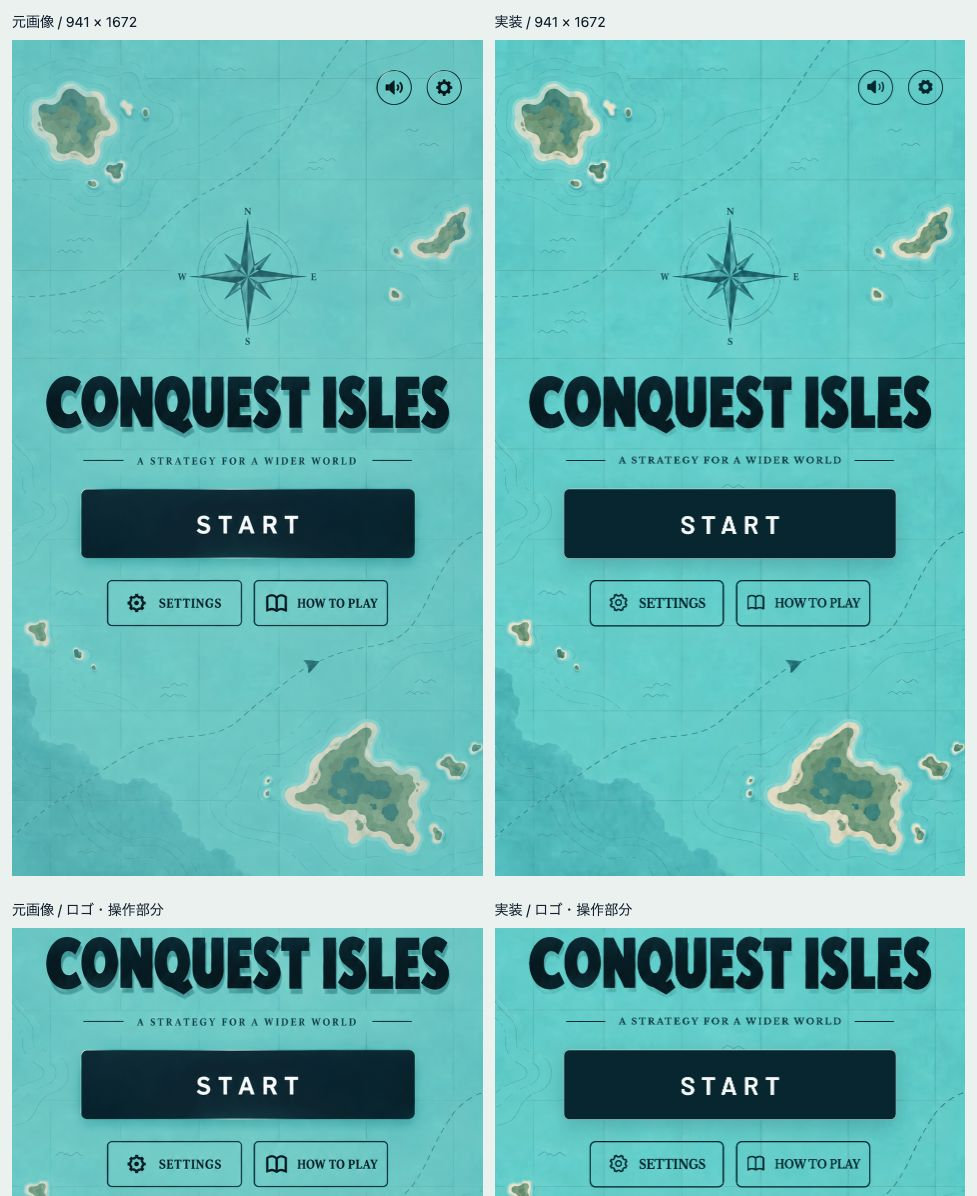
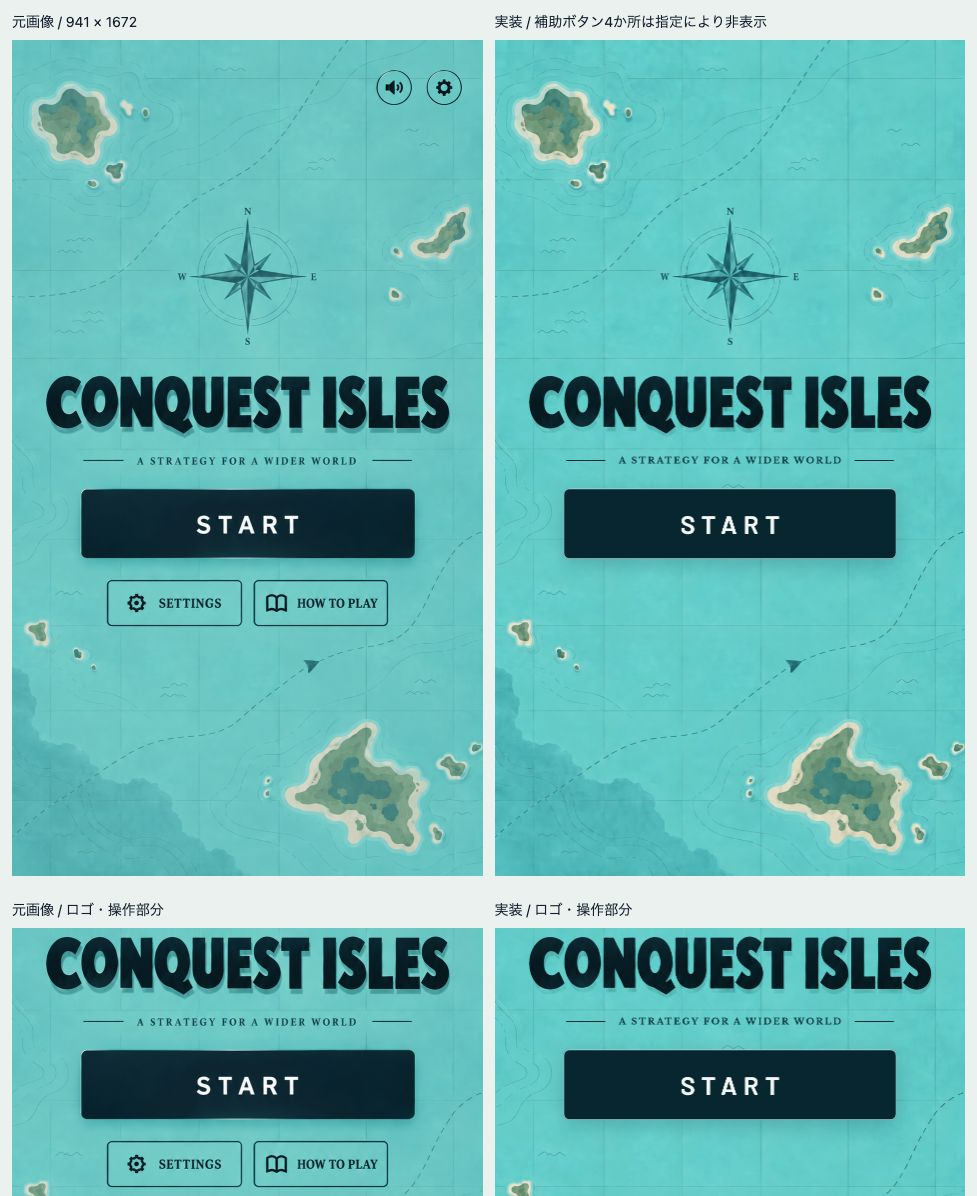
トップ画面の補助ボタンを一時的に非表示

diff --git a/lib/ui/title_screen.dart b/lib/ui/title_screen.dart
@@ -9,6 +9,8 @@ import '../l10n/generated/app_localizations_en.dart';
 const _ink = Color(0xFF002C36);
 const _paper = Color(0xFFF6F8F7);
 const _referenceSize = Size(941, 1672);
+// トップ画面の補助ボタンは、再表示するまで一時的に非表示にする。
+const _showSecondaryActions = false;
 
 /// The app's entry screen. Match state and navigation belong to its host.
 class TitleScreen extends StatelessWidget {
@@ -71,63 +73,66 @@ class TitleScreen extends StatelessWidget {
                         primary: true,
                       ),
                     ),
-                    SizedBox(height: 42 * scale),
-                    SizedBox(
-                      width: secondaryWidth,
-                      child: largeText
-                          ? Column(
-                              crossAxisAlignment: CrossAxisAlignment.stretch,
-                              children: [
-                                _settingsButton(l10n, scale),
-                                const SizedBox(height: 12),
-                                _helpButton(context, l10n, scale),
-                              ],
-                            )
-                          : Row(
-                              children: [
-                                Expanded(child: _settingsButton(l10n, scale)),
-                                SizedBox(width: 24 * scale),
-                                Expanded(
-                                  child: _helpButton(context, l10n, scale),
-                                ),
-                              ],
-                            ),
-                    ),
+                    if (_showSecondaryActions) ...[
+                      SizedBox(height: 42 * scale),
+                      SizedBox(
+                        width: secondaryWidth,
+                        child: largeText
+                            ? Column(
+                                crossAxisAlignment: CrossAxisAlignment.stretch,
+                                children: [
+                                  _settingsButton(l10n, scale),
+                                  const SizedBox(height: 12),
+                                  _helpButton(context, l10n, scale),
+                                ],
+                              )
+                            : Row(
+                                children: [
+                                  Expanded(child: _settingsButton(l10n, scale)),
+                                  SizedBox(width: 24 * scale),
+                                  Expanded(
+                                    child: _helpButton(context, l10n, scale),
+                                  ),
+                                ],
+                              ),
+                      ),
+                    ],
                     // Let short screens and enlarged text scroll every action
                     // into view without shrinking interactive targets.
                     SizedBox(height: math.max(24.0, 32 * scale)),
                   ],
                 ),
-                Positioned(
-                  top: math.max(4.0, 60 * scale - iconInset),
-                  right: math.max(4.0, 44 * scale - iconInset),
-                  child: Row(
-                    children: [
-                      _ChartIconButton(
-                        buttonKey: const ValueKey('title-sound'),
-                        icon: CupertinoIcons.speaker_2_fill,
-                        tooltip: l10n.titleSound,
-                        size: iconSize,
-                        onPressed: () => _showInformation(
-                          context,
-                          title: l10n.titleSound,
-                          content: Text(l10n.titleSoundDescription),
-                          closeLabel: l10n.titleClose,
+                if (_showSecondaryActions)
+                  Positioned(
+                    top: math.max(4.0, 60 * scale - iconInset),
+                    right: math.max(4.0, 44 * scale - iconInset),
+                    child: Row(
+                      children: [
+                        _ChartIconButton(
+                          buttonKey: const ValueKey('title-sound'),
+                          icon: CupertinoIcons.speaker_2_fill,
+                          tooltip: l10n.titleSound,
+                          size: iconSize,
+                          onPressed: () => _showInformation(
+                            context,
+                            title: l10n.titleSound,
+                            content: Text(l10n.titleSoundDescription),
+                            closeLabel: l10n.titleClose,
+                          ),
                         ),
-                      ),
-                      SizedBox(
-                        width: math.max(0.0, 30 * scale - 2 * iconInset),
-                      ),
-                      _ChartIconButton(
-                        buttonKey: const ValueKey('title-settings-icon'),
-                        icon: CupertinoIcons.gear_alt_fill,
-                        tooltip: l10n.settingsTitle,
-                        size: iconSize,
-                        onPressed: onStart,
-                      ),
-                    ],
+                        SizedBox(
+                          width: math.max(0.0, 30 * scale - 2 * iconInset),
+                        ),
+                        _ChartIconButton(
+                          buttonKey: const ValueKey('title-settings-icon'),
+                          icon: CupertinoIcons.gear_alt_fill,
+                          tooltip: l10n.settingsTitle,
+                          size: iconSize,
+                          onPressed: onStart,
+                        ),
+                      ],
+                    ),
                   ),
-                ),
               ],
             ),
           ),

diff --git a/test/title_screen_test.dart b/test/title_screen_test.dart
@@ -10,41 +10,6 @@ import 'package:flutter_test/flutter_test.dart';
 import 'support/match_setup.dart';
 
 void main() {
-  testWidgets('both title settings buttons open the retained match setup', (
-    tester,
-  ) async {
-    await tester.binding.setSurfaceSize(const Size(390, 844));
-    addTearDown(() => tester.binding.setSurfaceSize(null));
-    await tester.pumpWidget(
-      const ProviderScope(child: MyApp(locale: Locale('en'))),
-    );
-    for (final key in ['title-settings', 'title-settings-icon']) {
-      await tester.tap(find.byKey(ValueKey(key)));
-      await tester.pumpAndSettle();
-      expect(find.byKey(const ValueKey('settings-view')), findsOneWidget);
-      await tester.tap(find.byKey(const ValueKey('return-title')));
-      await tester.pumpAndSettle();
-    }
-  });
-
-  testWidgets('how to play opens and closes without starting the match', (
-    tester,
-  ) async {
-    await tester.binding.setSurfaceSize(const Size(390, 844));
-    addTearDown(() => tester.binding.setSurfaceSize(null));
-    await tester.pumpWidget(
-      const ProviderScope(child: MyApp(locale: Locale('ja'))),
-    );
-    await tester.tap(find.byKey(const ValueKey('title-how-to-play')));
-    await tester.pumpAndSettle();
-    expect(find.text('遊び方'), findsOneWidget);
-    expect(find.textContaining('半分'), findsOneWidget);
-    await tester.tap(find.byKey(const ValueKey('title-dialog-close')));
-    await tester.pumpAndSettle();
-    expect(find.byKey(const ValueKey('title-view')), findsOneWidget);
-    expect(find.byKey(const ValueKey('settings-view')), findsNothing);
-  });
-
   testWidgets(
     'keeps title actions at least 48 pixels tall on desktop',
     (tester) async {

diff --git a/design-qa.md b/design-qa.md
@@ -2,7 +2,7 @@
 
 **最終結果：合格**
 
-元画像との比較で見つかったロゴの影・文字幅・小画面の読みやすさを修正しました。対応が必要な重大度 P0〜P2 の指摘は残っていません。
+元画像の海図・ロゴ・配色・STARTの配置を再現しました。追加の指定に合わせ、右上のサウンド・設定と、下段のSETTINGS・HOW TO PLAYの4か所を一時的に非表示にしています。対応が必要な重大度 P0〜P2 の指摘は残っていません。
 
 ## 比較対象と画像
 
@@ -11,6 +11,7 @@
 - 同じサイズで描画した画面：[最終版](design-qa-assets/isles-title/reference-size-final.png)。
 - 全体と操作部分を並べた画像：[元画像と実装の比較](design-qa-assets/isles-title/comparison-final.png)。
 - ブラウザでの表示：[390 × 844](design-qa-assets/isles-title/web-title-390.png)、[320 × 568](design-qa-assets/isles-title/web-title-320.png)、[1440 × 900](design-qa-assets/isles-title/web-title-wide.png)。
+- コメント時と同じ表示領域：[442 × 964・補助ボタン非表示後](design-qa-assets/isles-title/web-title-actions-hidden.png)。比較画像と各サイズの画面は、すべて補助ボタンの非表示後に更新しました。
 
 ![元画像と実装の比較](design-qa-assets/isles-title/comparison-final.png)
 
@@ -25,36 +26,37 @@
 
 | 観点 | 確認した内容 |
 | --- | --- |
-| 文字・書体 | `CONQUEST ISLES` は元画像の字形と影を利用しています。`START` はBarlow SemiBold、キャッチコピーと下段ボタンはLibre Baskerville Boldを使用し、太さ・文字間隔・文字幅を調整しました。フォントとOFLライセンスを同梱しています。 |
-| 配置・余白 | 幅941ピクセルでは、ロゴの切り出し位置をy=666、開始ボタンを幅667・y≈898、下段ボタンの並びを幅562・y≈1081に合わせています。操作領域の高さは48論理ピクセル以上です。小画面では下段ボタンの幅を広げ、文字拡大時は縦並び、画面の高さが足りない場合はスクロールで対応します。 |
+| 文字・書体 | `CONQUEST ISLES` は元画像の字形と影を利用しています。`START` はBarlow SemiBold、キャッチコピーはLibre Baskerville Boldを使用し、太さ・文字間隔・文字幅を調整しました。フォントとOFLライセンスを同梱しています。 |
+| 配置・余白 | 幅941ピクセルでは、ロゴの切り出し位置をy=666、開始ボタンを幅667・y≈898に合わせています。補助ボタンの非表示後もロゴとSTARTの位置を保ちます。操作領域の高さは48論理ピクセル以上です。画面の高さが足りない場合はスクロールで対応します。 |
 | 色・質感 | 青緑の海図、濃紺のロゴと操作部分、白い開始ボタンの文字、細い枠線と影を合わせています。背景は元画像を編集して島・コンパス・格子・航路を残し、ロゴ周辺の青緑色は描画時に透過処理しています。 |
-| 画像 | 地図は元の解像度のPNG、ロゴは元画像の範囲を指定して表示しています。ボタン・文字・読み上げ・フォーカス表示・ダイアログはFlutterの部品として実装しています。 |
-| 表示文言 | `CONQUEST ISLES`、`A STRATEGY FOR A WIDER WORLD`、`START`、`SETTINGS`、`HOW TO PLAY` を元画像に合わせています。ダイアログと操作の読み上げは日本語・英語に対応します。 |
-| アイコン・操作 | スピーカー・歯車・本にはCupertino／Materialのアイコンを使用しています。開始ボタンと2つの設定ボタンから既存の対戦設定を開き、遊び方ボタンから説明を表示できます。 |
+| 画像 | 地図は元の解像度のPNG、ロゴは元画像の範囲を指定して表示しています。開始ボタン・文字・読み上げ・フォーカス表示はFlutterの部品として実装しています。 |
+| 表示文言 | `CONQUEST ISLES`、`A STRATEGY FOR A WIDER WORLD`、`START` を元画像に合わせています。開始ボタンの読み上げは日本語・英語に対応します。 |
+| 操作 | STARTから既存の対戦設定を開けます。指定された4つの補助ボタンは画面とアクセシビリティの操作対象に含まれません。 |
 
 ## 比較で見つかった差と修正
 
-1. **P2：ロゴの影が薄く、下段ボタンの文字が横に広い。**
-   [初回の描画](design-qa-assets/isles-title/reference-size-first.png)を確認し、透過処理で不透明に保つ色の範囲を広げ、下段文字の幅と歯車アイコンを調整しました。同じサイズで再描画した[最終比較](design-qa-assets/isles-title/comparison-final.png)で修正を確認しました。初回の撮影ではテスト環境で影のぼかしが無効になっていたため、最終画像では通常の影を有効にしています。
-2. **P2：小画面で下段ボタンの文字が縮みすぎる。**
-   ブラウザを320 × 568にすると、Web版の縦長領域が幅約262ピクセルになり、下段の文字が小さくなっていました。下段ボタンの並びに最小幅を設け、幅941ピクセルの配置を保ちながら読みやすさを確保しました。再ビルド後の[320 × 568](design-qa-assets/isles-title/web-title-320.png)と[390 × 844](design-qa-assets/isles-title/web-title-390.png)で、文字と操作部分の収まりを確認しました。最終コードレビューでも修正を確認しています。
+1. **P2：ロゴの影が薄い。**
+   [初回の描画](design-qa-assets/isles-title/reference-size-first.png)を確認し、透過処理で不透明に保つ色の範囲を広げました。同じサイズで再描画した[最終比較](design-qa-assets/isles-title/comparison-final.png)で修正を確認しました。初回の撮影ではテスト環境で影のぼかしが無効になっていたため、最終画像では通常の影を有効にしています。
+2. **指定による変更：4つの補助ボタンを一時的に非表示。**
+   ブラウザコメントの4か所に従い、右上のサウンド・設定と下段のSETTINGS・HOW TO PLAYを表示対象から外しました。元画像との差は意図した変更です。ロゴ・キャッチコピー・STARTの配置を保ち、320 × 568から1440 × 900まで表示を確認しました。
 
 ## 操作・実装の検証
 
-- アプリ内ブラウザで「START → 対戦設定 → 8島を選択 → タイトルへ戻る → 右上の設定 → 8島の選択が保持されていることを確認 → カウントダウン → 対戦開始」を確認しました。
-- [遊び方](design-qa-assets/isles-title/web-help.png)は日本語で表示され、対戦を開始せずタイトルへ戻れます。サウンドの案内も開閉できます。
-- [対戦開始後の画面](design-qa-assets/isles-title/web-playing.png)を確認しました。画面遷移後と最終ビルドの確認時に、ブラウザの警告・エラーは検出されませんでした。
-- Flutterの全195テストが成功しました。設定保持、タイトル遷移、画面端の安全領域、文字拡大、アプリの一時停止・復帰、対戦動作を含みます。タイトル画面は9テストで、設定ボタンと遊び方の操作テストを2件追加しています。
+- 非表示後のアプリ内ブラウザで「START → 対戦設定 → 8島を選択 → タイトルへ戻る → START → 8島の選択が保持されていることを確認」を実施しました。
+- 442 × 964の画面で4つの補助ボタンが消え、アクセシビリティ上のボタンが「はじめる」だけになったことを確認しました。
+- 小画面・横長画面を確認し、最終ビルドのブラウザの警告・エラーは検出されませんでした。
+- 非表示変更前には、カウントダウンから[対戦開始後の画面](design-qa-assets/isles-title/web-playing.png)まで確認しています。
+- 非表示後のFlutterの全193テストが成功しました。設定保持、タイトル遷移、画面端の安全領域、文字拡大、アプリの一時停止・復帰、対戦動作を含みます。タイトル画面は7テストです。
 - `fvm flutter analyze --no-pub`：問題なし。
 - `fvm flutter build web --release --no-pub`：成功。
-- `fvm flutter build ios --simulator --debug --no-pub`：成功。この検証では、起動したiOSシミュレータ上での操作確認は行っていません。
-- 最終コードレビュー：小画面の修正後、対応が必要な重要指摘なし。
+- `fvm flutter build ios --simulator --debug --no-pub`：補助ボタンの非表示変更前に成功。今回の非表示変更後はiOSビルドを再実行していません。起動したiOSシミュレータ上での操作確認も行っていません。
+- 画像再現部分のコードレビューで重要指摘なし。今回の非表示変更は差分を確認しました。
 
 ## 残る軽微な差と制約
 
-- **P3：アイコンと表面の質感。** 歯車の歯数や本の線は、元画像とライブラリのアイコンでわずかに異なります。開始ボタンは濃紺の単色と影で表現し、元画像にあるごく薄い色むらは再現していません。編集した背景にも細かな質感の差があります。
-- 既存アプリには音楽・効果音がありません。サウンドアイコンを押すと、その対応状況を案内します。
-- 元画像にないフォーカス、マウスポインターを重ねた状態、ダイアログ、読み上げは、既存Flutterアプリの操作に合わせています。
+- **P3：表面の質感。** 開始ボタンは濃紺の単色と影で表現し、元画像にあるごく薄い色むらは再現していません。編集した背景にも細かな質感の差があります。
+- 既存アプリには音楽・効果音がありません。設定・サウンド・遊び方の補助ボタンは現在非表示です。
+- 元画像にないフォーカス、マウスポインターを重ねた状態、読み上げは、既存Flutterアプリの操作に合わせています。
 
 ## 完了項目
 

diff --git a/docs/game-rules.md b/docs/game-rules.md
@@ -19,8 +19,8 @@
 ## ゲーム開始
 
 - アプリ起動時は海図を背景にした「CONQUEST ISLES」のタイトル画面を表示し、「START」から対戦設定へ進む。
-- タイトル画面の「SETTINGS」と右上の歯車も対戦設定を開く。「HOW TO PLAY」は遊び方を表示し、対戦を開始せずタイトルへ戻れる。
-- タイトルの表示文字はデザインに合わせた英語とし、操作の読み上げとダイアログは端末の言語に対応する。サウンドアイコンは、現在は音楽・効果音がないことを案内する。
+- タイトル画面の下段「SETTINGS」「HOW TO PLAY」と右上の設定・サウンドアイコンは一時的に非表示とする。対戦設定へは「START」から進む。
+- タイトルの表示文字はデザインに合わせた英語とし、操作の読み上げは端末の言語に対応する。
 - 対戦設定の「タイトルへ戻る」またはAndroidの戻る操作でタイトルへ戻れる。タイトルとの往復では島数・対戦モード・両CPUの難易度を保持する。
 - タイトル表示中は対戦を進行しない。バックグラウンドからの復帰では現在の画面を維持し、対戦中の復帰には既存の一時停止ルールを適用する。
 - ゲーム画面はスマートフォンの縦向きに固定する。
